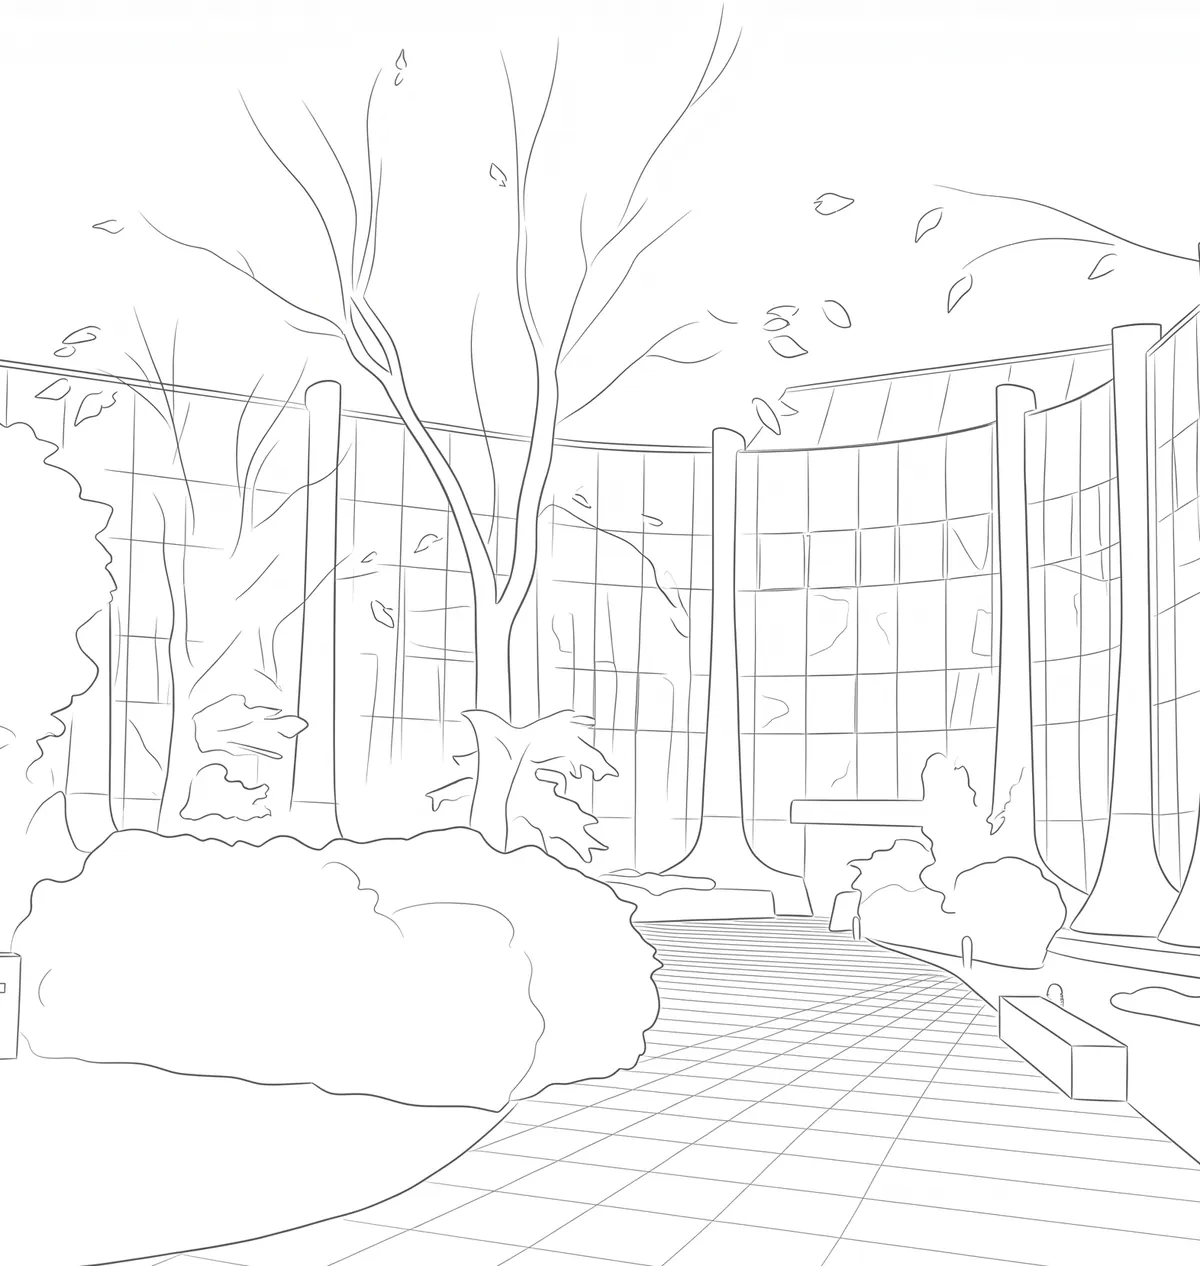
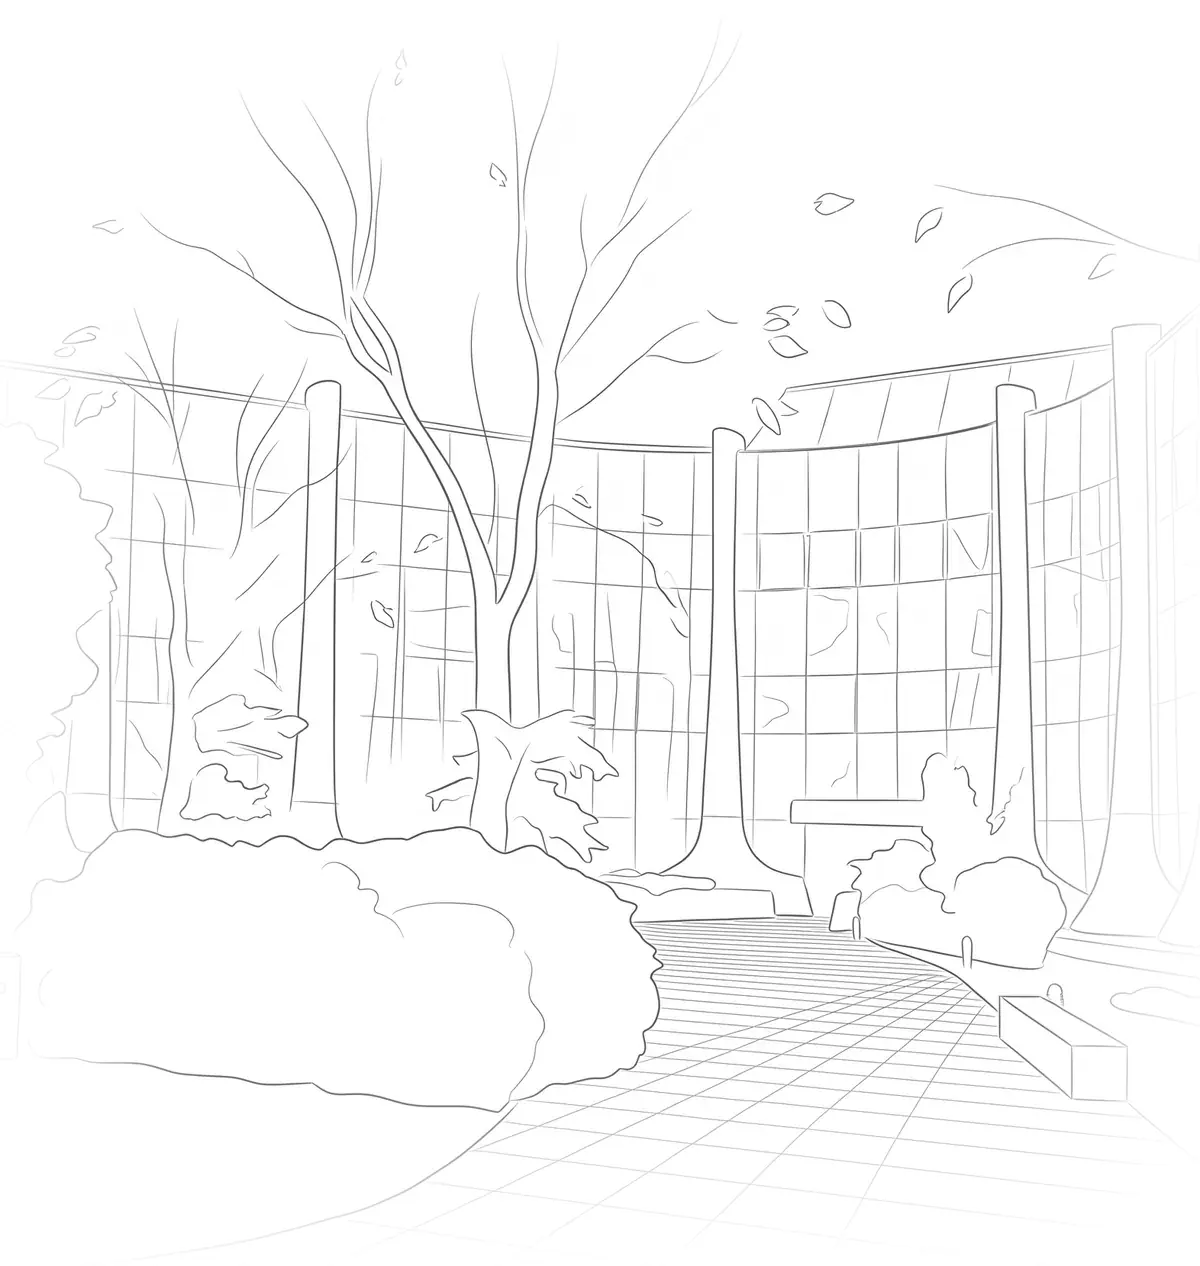
Bords adoucis pour les images de la frise ; crédit dans le pied de page

diff --git a/css/style.css b/css/style.css
@@ -176,18 +176,12 @@ h1 { font: 700 clamp(2.6rem, 7vw, 4.6rem)/1.04 var(--titre); letter-spacing: -.0
   content: ""; position: absolute; inset: 0;
   background: linear-gradient(90deg, rgba(255,255,255,.96) 0%, rgba(255,255,255,.9) 40%, rgba(255,255,255,.45) 75%, rgba(255,255,255,.2) 100%);
 }
-.etape-fond figcaption, .etape-fond > figcaption {
-  position: absolute; right: 16px; bottom: 22%; z-index: 1; max-width: 60%;
-  padding: 4px 8px; border-radius: 6px; background: rgba(255, 255, 255, .9); color: var(--encre);
-  font: 400 .72rem/1.4 var(--mono);
-}
 @media (max-width: 759px) {
   .etape { min-height: 60vh; }
   /* Téléphone : l'écran est étroit, l'image remplit la bande et sert de texture derrière le texte */
   .etape-fond { padding: 0; }
   .etape-fond img { object-fit: cover; object-position: center; }
   .etape-fond::after { background: rgba(255, 255, 255, .86); }
-  .etape-fond figcaption { bottom: 20%; right: 12px; max-width: 70%; }
 }
 
 /* Animation : le titre monte mot à mot, puis la date et le texte apparaissent en fondu.
@@ -284,6 +278,7 @@ h1 { font: 700 clamp(2.6rem, 7vw, 4.6rem)/1.04 var(--titre); letter-spacing: -.0
 .pied { background: #16181D; color: #F7F7F5; }
 .pied-inner { max-width: 1100px; margin: 0 auto; padding: 48px 24px; display: flex; flex-wrap: wrap; justify-content: space-between; align-items: center; gap: 20px; }
 .pied-titre { font: 700 1.5rem var(--titre); }
+.credits { max-width: 1100px; margin: 0 auto; padding: 0 24px 28px; font: 400 .75rem/1.5 var(--mono); color: #A9AEBA; }
 .btn-clair { color: #16181D; background: #F7F7F5; }
 .btn-clair:hover { background: #fff; }
 .btn-contour { color: #F7F7F5; background: transparent; border: 1px solid #4A4F5C; }

diff --git a/index.html b/index.html
@@ -103,7 +103,7 @@
       <p class="desc">Spécialité NLP et IA. Mon mémoire : repérer les lieux d'Île-de-France dans 17 819 chansons, avec spaCy et une carte interactive. Et d'autres projets : reconnaissance vocale à base de HMM, OCR de pamphlets de la Fronde, attribution d'auteur par stylométrie.</p>
     </li>
     <li class="etape">
-      <div class="etape-fond" aria-hidden="true"><img src="assets/parcours/licence.webp" alt="" loading="lazy"><figcaption>Chapelle de la Sorbonne · Dessin d'après une photo de Wikimedia Commons <!-- [À COMPLÉTER AVANT DE POUSSER] auteur et licence de la photo d'origine, recopiés depuis sa page Commons (la licence CC BY s'applique aussi aux dessins qui en sont tirés) --></figcaption></div>
+      <div class="etape-fond" aria-hidden="true"><img src="assets/parcours/licence.webp" alt="" loading="lazy"></div>
       <p class="date">2018 – 2021 · Sorbonne Université</p>
       <h3>Licence Sciences du Langage et Informatique</h3>
       <p class="desc">La linguistique et l'informatique, étudiées ensemble dès le départ. <!-- [À COMPLÉTER] ce que tu retiens de la Licence, en une phrase --></p>
@@ -370,6 +370,7 @@
       <a class="btn btn-contour" href="https://github.com/Tiiiagooo" target="_blank" rel="noopener noreferrer">GitHub<span class="sr-only"> (nouvel onglet)</span></a>
     </div>
   </div>
+  <p class="credits">Illustrations du parcours : dessins générés d'après des photos ; chapelle de la Sorbonne d'après une photo de Wikimedia Commons <!-- [À COMPLÉTER AVANT DE POUSSER] auteur et licence de la photo d'origine (ex. : « photo de X, CC BY 3.0 ») --></p>
 </footer>
 
 
